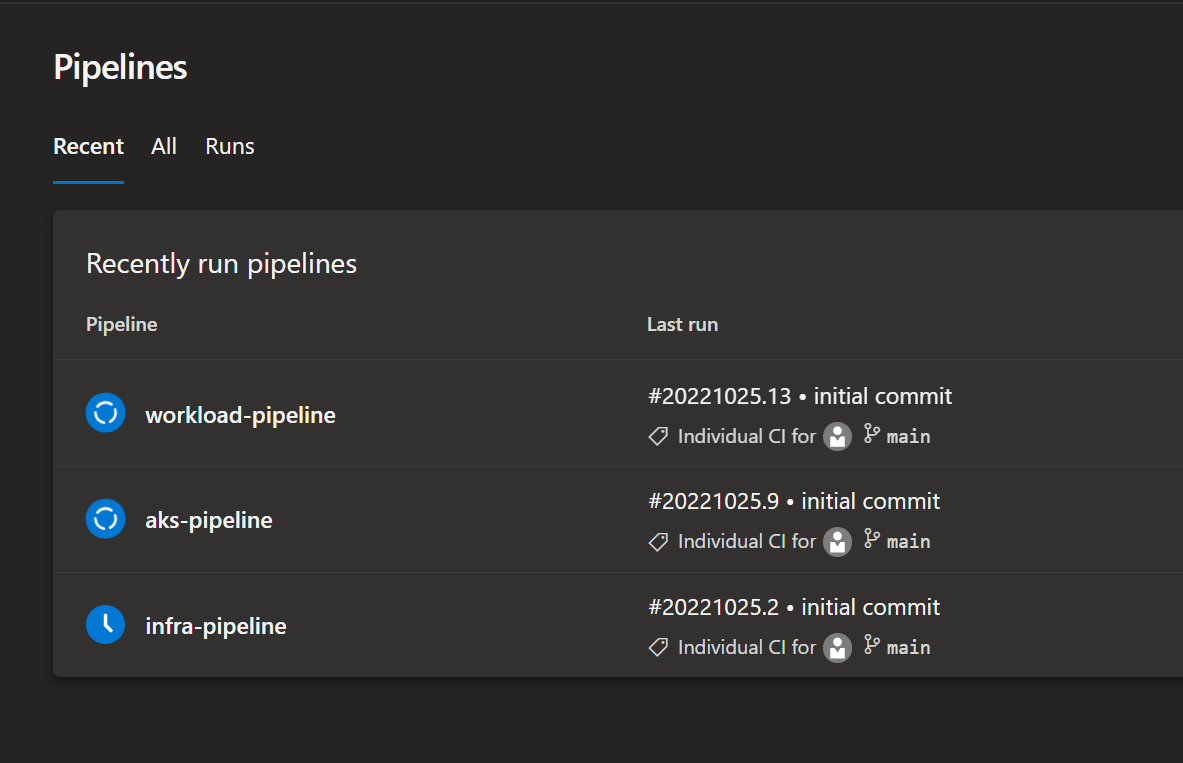
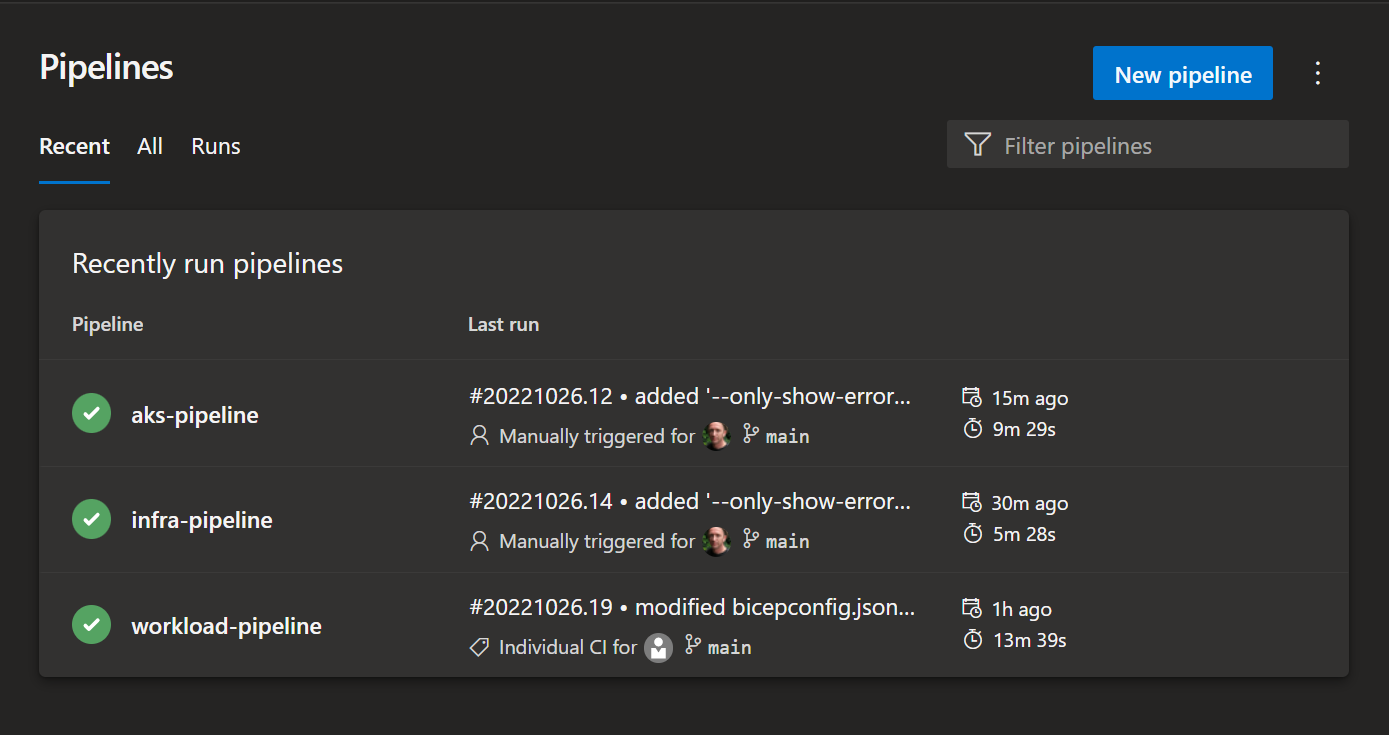
updated README.md

diff --git a/README.md b/README.md
@@ -16,7 +16,6 @@ Three ADO pipelines each deploy a separate layer of the solution:
 - Azure DevOps Organization
 - [Fork](https://docs.github.com/en/pull-requests/collaborating-with-pull-requests/working-with-forks/about-forks) this repository into your own GitHub account
 - Create an Azure DevOps [GitHub Service Connection](https://learn.microsoft.com/en-us/azure/devops/pipelines/library/service-endpoints?view=azure-devops&tabs=yaml) to the forked repository
-- Install the 'Run ARM TTK Tests (Cross Platform)' extension to your ADO project from the [Azure DevOps marketplace](https://marketplace.visualstudio.com)
 - Create 3 pipelines from the ./pipelines/*-pipeline.yaml files, in the Azure Devops portal
   - 'Project' -> 'Pipelines' -> 'New Pipeline' -> 'GitHub' -> '(your forked GitHub repo name)/aks-cicd-demo' -> 'Existing Azure Pipelines YAML file'
   - Repeat the above process to browse for each of the existing pipeline files
@@ -32,5 +31,21 @@ Three ADO pipelines each deploy a separate layer of the solution:
   - aks-cicd-demo-test
   - aks-cicd-demo-prod
 
+<img src="./images/environments_screenshot.png" alt="Pipelines" width="800"/>
+
 ## Deployment
-- run the ''
+- Run the the pipelines in the following oder:
+  - infra-pipeline
+  - aks-pipeline
+  - workload-pipeline
+
+## Testing
+- The production environment will be exposed via an Azure Load Balancer
+  - Get the production cluster's kubeconfig file
+    - az aks get-credentials -n 'cluster name' -g prod-aks-rg --admin
+  - Using the bash shell, get the public IP assigned to the 'azure-vote-front' service in the 'azure-vote' namespace 
+    - EXTERNAL_IP=$(kubectl get svc azure-vote-front -n azure-vote --output jsonpath='{.status.loadBalancer.ingress[0].ip}')
+  - Hit the endpoint using curl, or use a browser
+    - curl http://$EXTERNAL_IP
+
+<img src="./images/prod_azure_vote_screenshot.png" alt="Pipelines" width="800"/>
